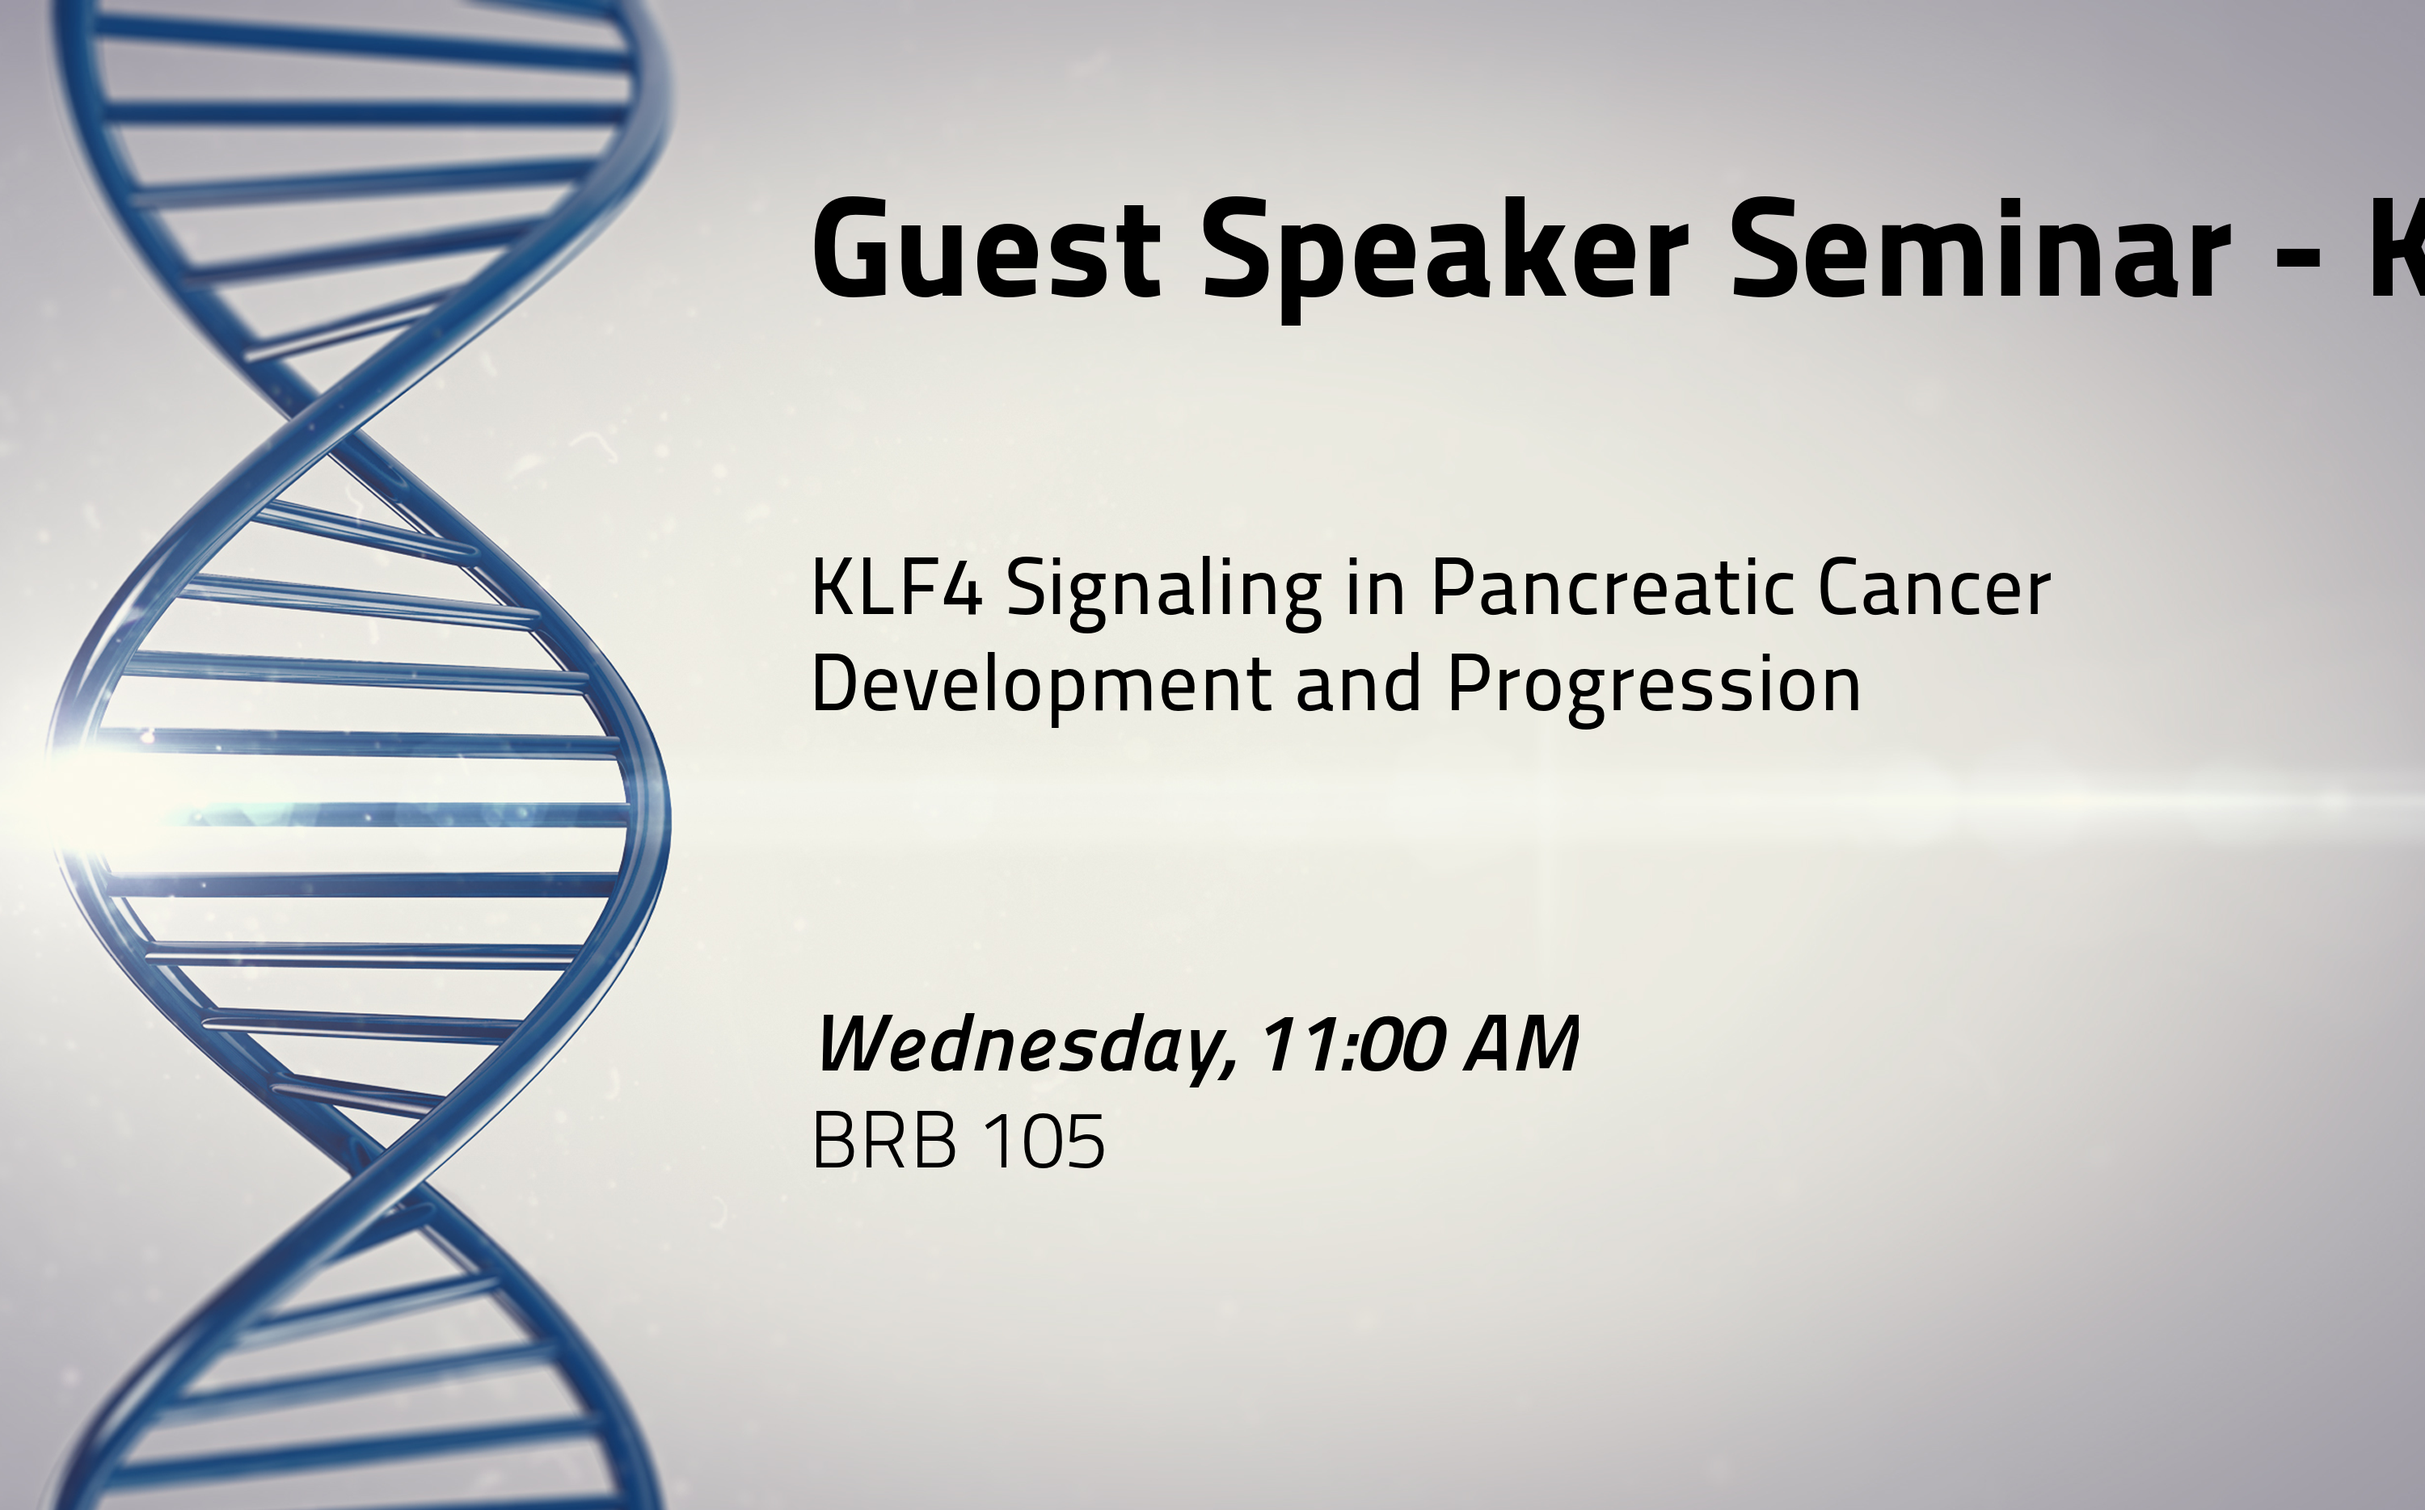
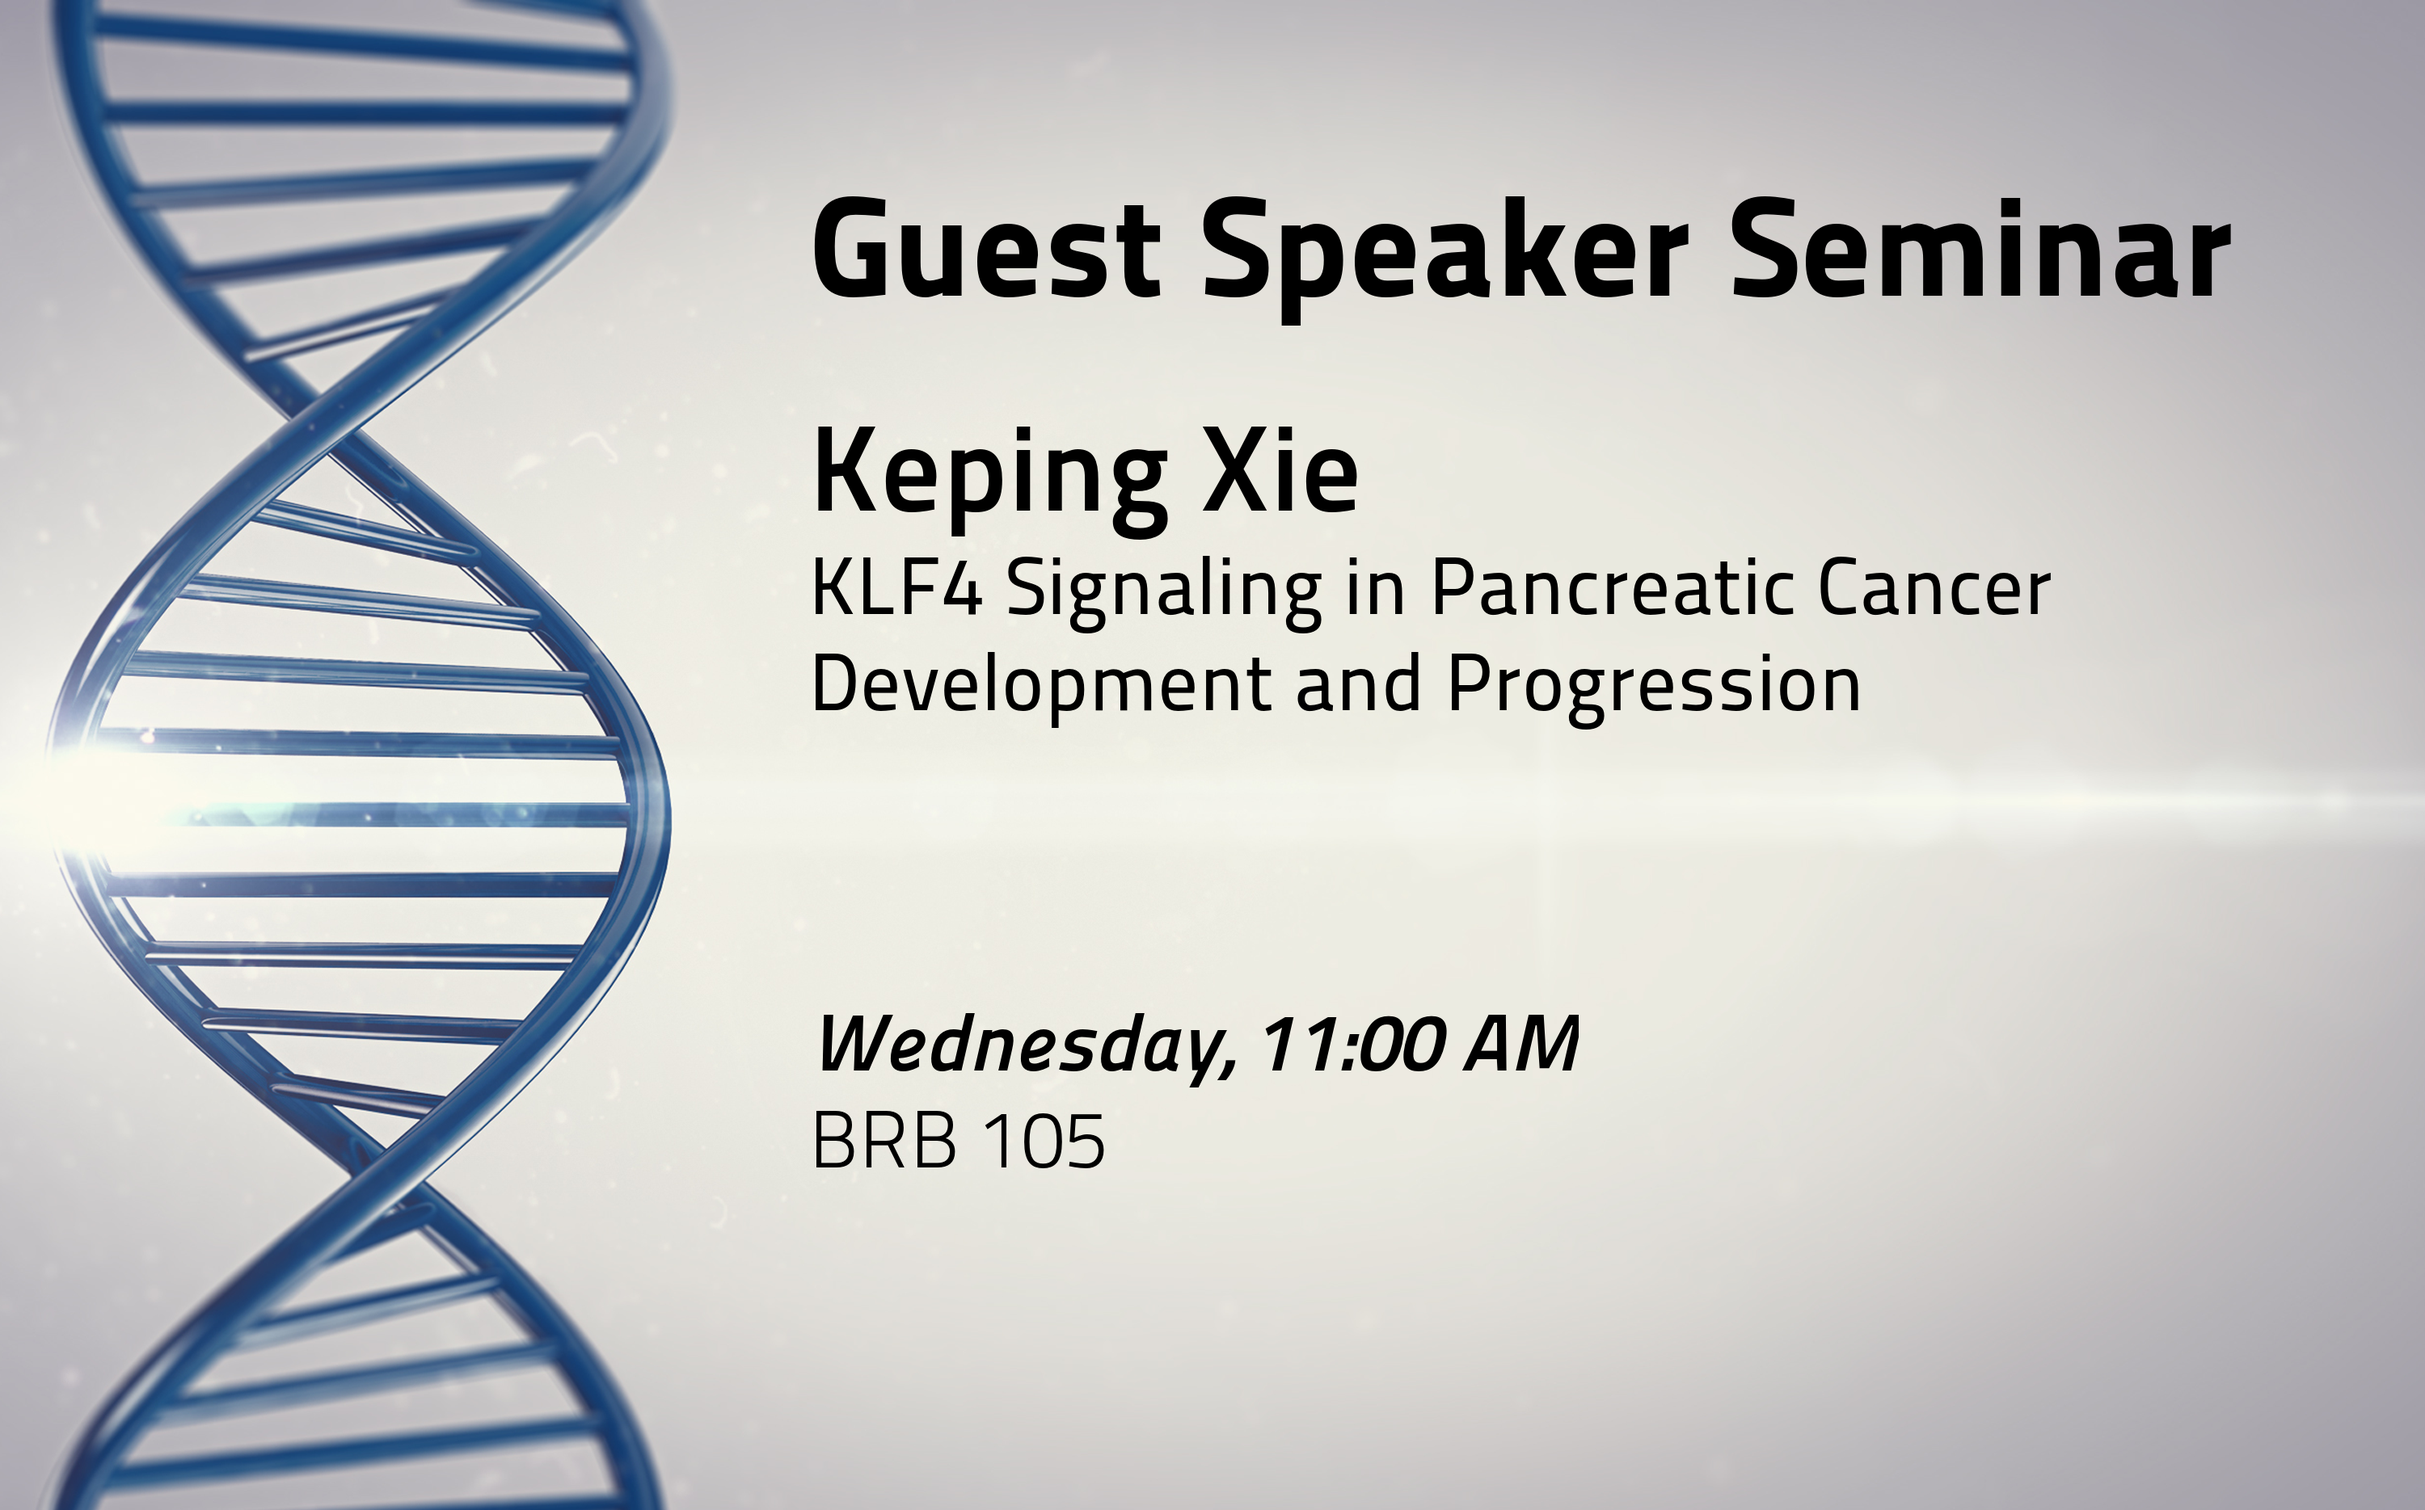
updating INPUT reader and image creator, removed stocks

Changed region(s): [[0.31, 0.2793, 0.558, 0.3724], [0.93, 0.1241, 1.0, 0.2172]]

diff --git a/disp.py b/disp.py
@@ -67,7 +67,7 @@ def main():
     global line1, line2
 
     load_text()
-    load_stock()
+    #load_stock()
     load_weather()
     
     last_slide = now
@@ -215,29 +215,29 @@ def mainLoop():
        logo_num = logo_num+1
     
     # Display Stock Info
-    font = pygame.font.Font("../fonts/TitilliumTitle12.otf", 50)
-    text_surface = font.render(stock['name'], True, (255, 255, 255), None)  # White text  
-    DISPLAYSURF.blit(text_surface, (2*so+s1w+5,515))
+    # font = pygame.font.Font("../fonts/TitilliumTitle12.otf", 50)
+    # text_surface = font.render(stock['name'], True, (255, 255, 255), None)  # White text  
+    # DISPLAYSURF.blit(text_surface, (2*so+s1w+5,515))
 
-    font = pygame.font.Font("../fonts/TitilliumTitle12.otf", 30)
-    text_surface = font.render(stock['share'], True, (200, 255, 200), None)  # White text  
-    DISPLAYSURF.blit(text_surface, (2*so+s1w+5,565))
+    # font = pygame.font.Font("../fonts/TitilliumTitle12.otf", 30)
+    # text_surface = font.render(stock['share'], True, (200, 255, 200), None)  # White text  
+    # DISPLAYSURF.blit(text_surface, (2*so+s1w+5,565))
 
-    font = pygame.font.Font("../fonts/TitilliumTitle12.otf", 50)
-    text_surface = font.render("" + stock['change'], True, (255, 100, 100), None)  # White text  
-    DISPLAYSURF.blit(text_surface, (2*so+s1w+5,615))
+    # font = pygame.font.Font("../fonts/TitilliumTitle12.otf", 50)
+    # text_surface = font.render("" + stock['change'], True, (255, 100, 100), None)  # White text  
+    # DISPLAYSURF.blit(text_surface, (2*so+s1w+5,615))
 
-    font = pygame.font.Font("../fonts/TitilliumTitle12.otf", 50)
-    text_surface = font.render("Price: " + stock['price'], True, (200, 200, 200), None)  # White text  
-    DISPLAYSURF.blit(text_surface, (2*so+s1w+5,665))
+    # font = pygame.font.Font("../fonts/TitilliumTitle12.otf", 50)
+    # text_surface = font.render("Price: " + stock['price'], True, (200, 200, 200), None)  # White text  
+    # DISPLAYSURF.blit(text_surface, (2*so+s1w+5,665))
  
-    font = pygame.font.Font("../fonts/TitilliumTitle12.otf", 20)
-    text_surface = font.render("Todays High: " + stock['high'], True, (255, 200, 200), None)  # White text  
-    DISPLAYSURF.blit(text_surface, (2*so+s1w+5,735))
+    # font = pygame.font.Font("../fonts/TitilliumTitle12.otf", 20)
+    # text_surface = font.render("Todays High: " + stock['high'], True, (255, 200, 200), None)  # White text  
+    # DISPLAYSURF.blit(text_surface, (2*so+s1w+5,735))
 
-    font = pygame.font.Font("../fonts/TitilliumTitle12.otf", 20)
-    text_surface = font.render("Todays Low: " + stock['low'], True, (255, 200, 200), None)  # White text  
-    DISPLAYSURF.blit(text_surface, (2*so+s1w+5,765))
+    # font = pygame.font.Font("../fonts/TitilliumTitle12.otf", 20)
+    # text_surface = font.render("Todays Low: " + stock['low'], True, (255, 200, 200), None)  # White text  
+    # DISPLAYSURF.blit(text_surface, (2*so+s1w+5,765))
 
     # Display Weather
     font = pygame.font.Font("../fonts/TitilliumTitle12.otf", 50)

diff --git a/get_genetics_data/read_INPUT.py b/get_genetics_data/read_INPUT.py
@@ -5,6 +5,7 @@ from PIL import ImageFont
 from PIL import Image
 from PIL import ImageDraw
 import textwrap
+import re
 
 urllib.urlretrieve("http://genetics.case.edu/VidDISPLAY/INPUT", "INPUT")
 
@@ -26,6 +27,7 @@ description_font = ImageFont.truetype("../fonts/TitilliumTitle12.otf",100)
 day_time_font = ImageFont.truetype("../fonts/Titalic750wt.otf",100)
 loc_font = ImageFont.truetype("../fonts/TitilliumMaps26L003.otf",100)
 check_event=[]
+news = []
 count = 0
 margin = 45
 offset= 665
@@ -41,14 +43,16 @@ for event in allinfo:
 		Number = event[5]
 		Dayoftheweek = event[6]
 		TalkType = event[7]
-		Speaker = event[8]
+		if '-' in TalkType:
+			Compound_Info = re.split(r'-', TalkType)
+			TalkType = Compound_Info[0].strip()
+			Speaker = Compound_Info[1].strip()
+		else:
+			Speaker = event[8]
 		Title = event[9]
 		Time =  event[10]
 		Location = event[11]
 		Day_Time = Dayoftheweek + ', ' + Time
-
-		
-
 		
 		draw.text((1000, 200),TalkType,(0,0,0),font=talktype_font)
 		draw = ImageDraw.Draw(img)
@@ -58,8 +62,6 @@ for event in allinfo:
     			draw.text((1000, offset), line, (0,0,0), font=title_font)
     			offset += title_font.getsize(line)[1]
     			
-
-
 		#draw.text((1000, 550),Title,(0,0,0),font=title_font)
 		draw = ImageDraw.Draw(img)
 		draw.text((1000, 1250),Day_Time,(0,0,0),font=day_time_font)
@@ -71,13 +73,16 @@ for event in allinfo:
 		img.save(image_name)
 		count = count+1
 	elif Type == "NEWS": #3-6
-		print event[3]
-		print event[4]
-		print event[5]
+		news = event[6]
+		print news
+		print len(news)
 	elif Type == "SPEC":
-		print "yes"
+		image_name = "slide" + str(count) +".png"
+		img.save(image_name)
+		count = count+1
 	else: 
 		print "Bad Type: I don't have this type in my logic."
+	
 	
 	
 
